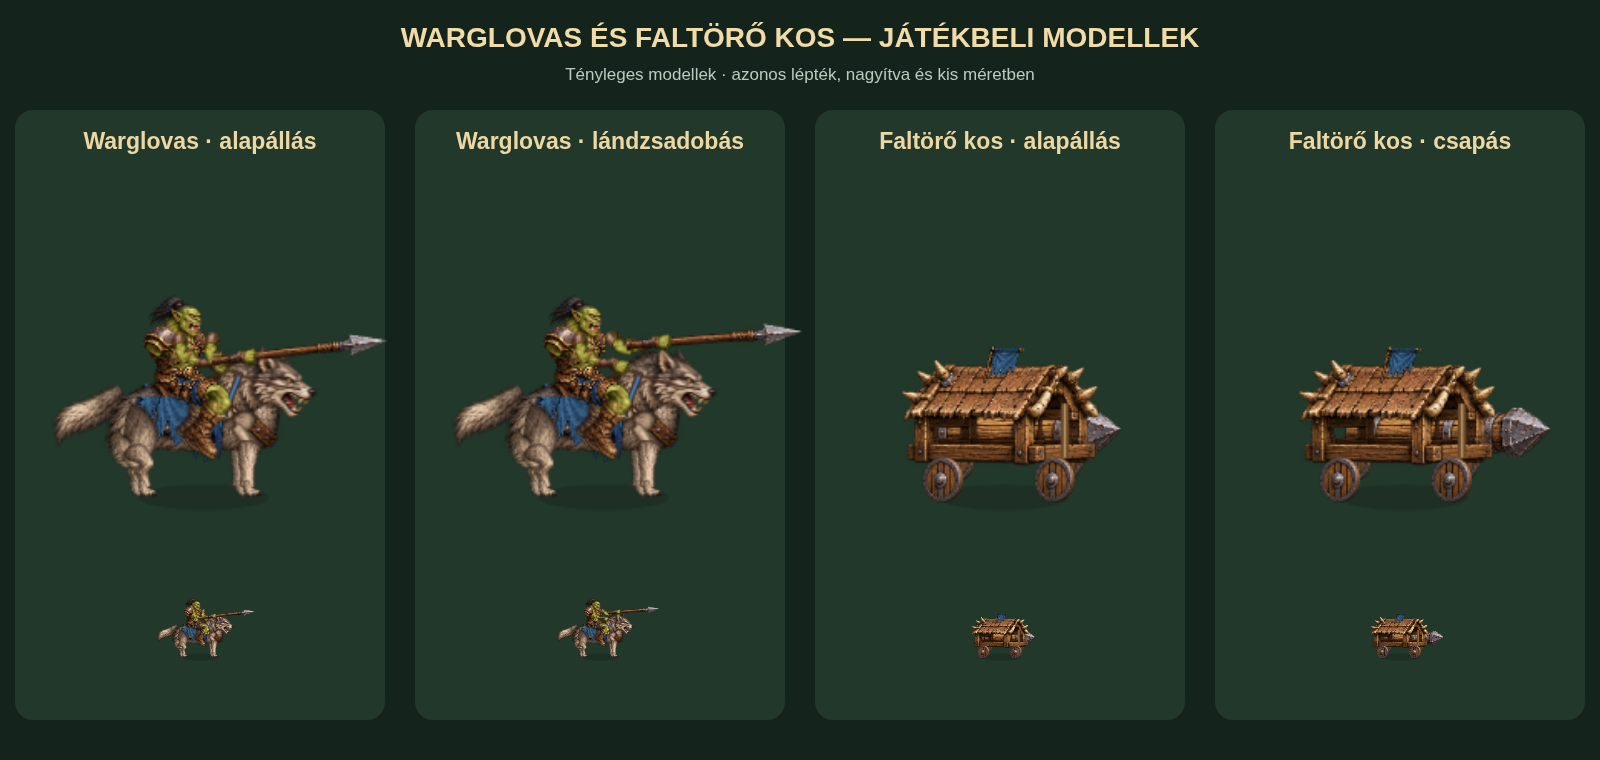
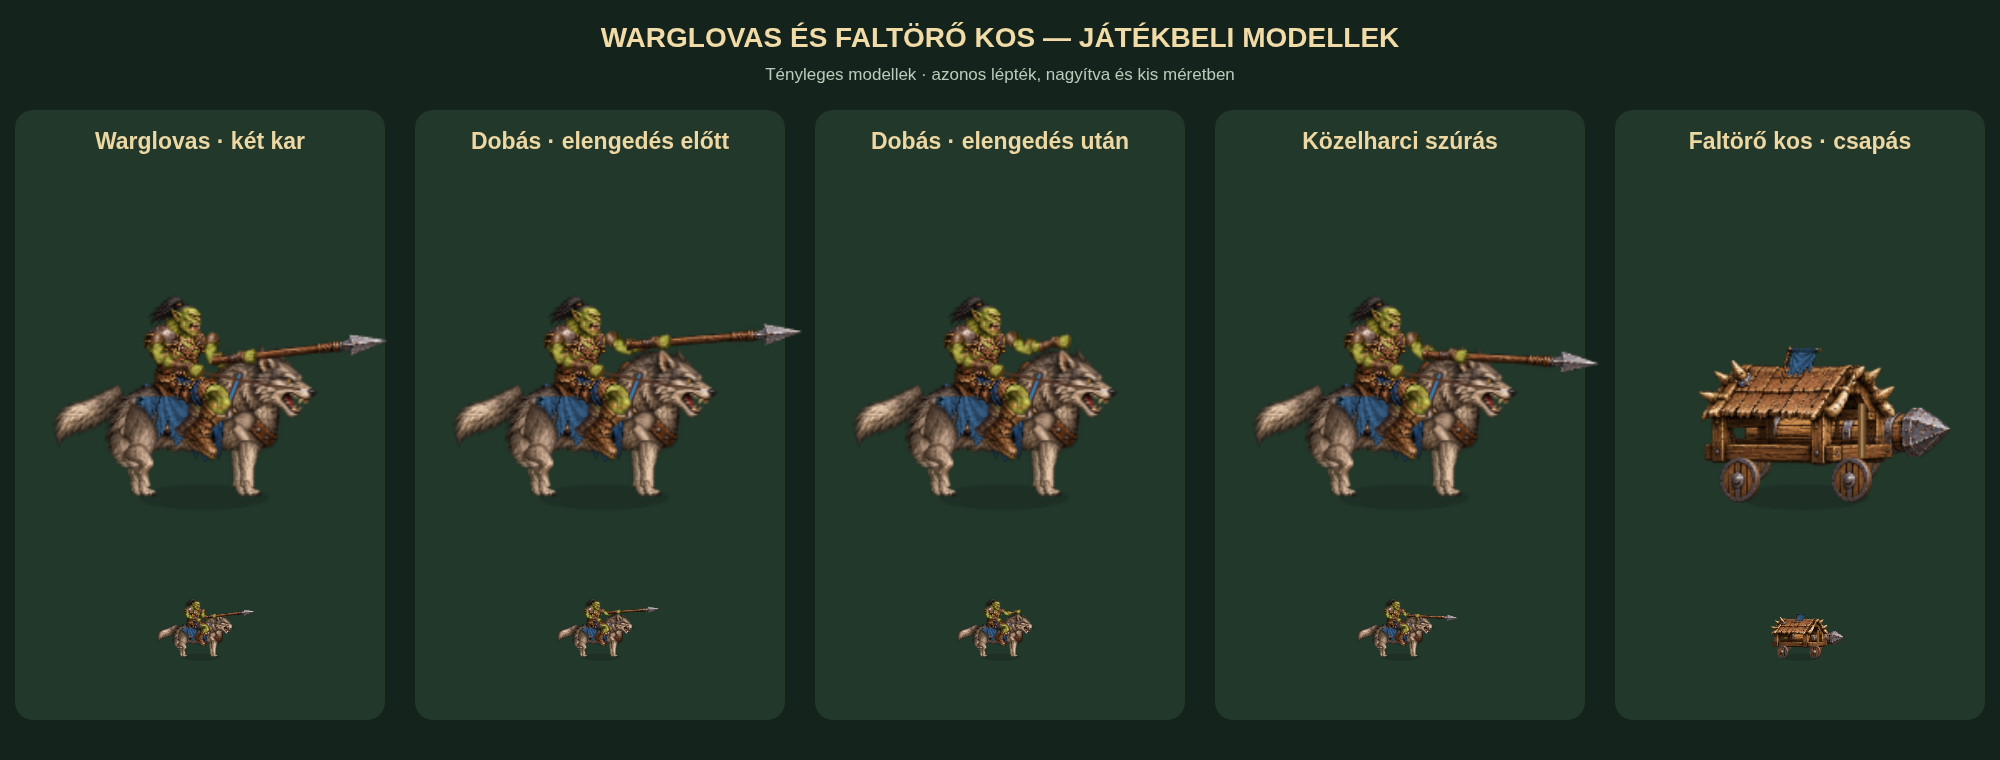
Keep Warg Rider arms visible and swing the Troll club with an extended arm

diff --git a/src/rendering/orc-mystic-figures.js b/src/rendering/orc-mystic-figures.js
@@ -14,7 +14,7 @@ export function installOrcMysticsArt(R) {
   };
   R.shamanLaunchPoint=()=>weaponTip('staff',[13,-28],.6);
   R.shamanProjectilePoint=(a,t)=>shamanProjectilePoint(R,a,t);
-  R.trollGroundPoint=()=>[(10+manifest.clubGround.impact.offset[0])*manifest.modelScales.orc_troll,1.5*manifest.modelScales.orc_troll];
+  R.trollGroundPoint=()=>{const pose=trollArmPose({},{state:'attack',frame:7},0);return pose.contact.map(v=>v*manifest.modelScales.orc_troll);};
 }
 function joint(a,b,upper,lower,bend=1) {
   const dx=b[0]-a[0],dy=b[1]-a[1],d=Math.max(.001,Math.hypot(dx,dy)),reach=Math.min(d,upper+lower-.001);
@@ -45,6 +45,26 @@ function shamanGrip(g,point,angle,elite) {
   g.lineWidth=.3;for(const y of [-.6,.2,.9]){g.beginPath();g.moveTo(-1.3,y);g.lineTo(.9,y);g.stroke();}g.restore();
 }
 
+function trollArmPose(p,pose,bob) {
+  const m=manifest.trollSwing,drag=manifest.clubGround.drag,impact=manifest.clubGround.impact,r=manifest.parts.club,a=manifest.anchors.club.grip,scale=manifest.weaponHeights.club/r[3];
+  const pixelOffset=pixel=>[(pixel[0]-r[0]-a[0]*r[2])*scale,(pixel[1]-r[1]-a[1]*r[3])*scale];
+  const raw=pixelOffset(drag.pixel),rotation=Math.PI/2+m.clubOffset+manifest.weaponRotations.club;
+  const q=[m.radius+Math.cos(rotation)*raw[0]-Math.sin(rotation)*raw[1],Math.sin(rotation)*raw[0]+Math.cos(rotation)*raw[1]];
+  const dragAngle=Math.PI-Math.asin((m.groundY-m.shoulder[1]-bob)/Math.hypot(...q))-Math.atan2(q[1],q[0]);
+  const impactAngle=impact.armAngle+TAU;
+  let armAngle=dragAngle;
+  if(pose.state==='attack'){
+    if(pose.frame<4)armAngle=mix(dragAngle,m.raisedAngle,p.wind);
+    else if(pose.frame<7)armAngle=mix(m.raisedAngle,impactAngle,p.strike);
+    else armAngle=mix(impactAngle,dragAngle,clamp(((p.recovery||0)-.2)/.8));
+  }
+  const grip=[m.shoulder[0]+Math.cos(armAngle)*m.radius,m.shoulder[1]+Math.sin(armAngle)*m.radius],weaponAngle=armAngle+Math.PI/2+m.clubOffset;
+  let contact=null;
+  const pixel=pose.state==='idle'||pose.state==='walk'?drag.pixel:pose.state==='attack'&&(pose.frame===6||pose.frame===7)?impact.pixel:null;
+  if(pixel){const point=pixelOffset(pixel),angle=weaponAngle+manifest.weaponRotations.club;contact=[grip[0]+Math.cos(angle)*point[0]-Math.sin(angle)*point[1],grip[1]+Math.sin(angle)*point[0]+Math.cos(angle)*point[1]+bob];}
+  return {grip,armAngle,weaponAngle,contact};
+}
+
 export function drawOrcMystic(g,R,color,p,elite,pose,key) {
   const troll=key==='orc_troll',prefix=troll?'tr':'sh';
   const part=(name,x,y,h)=>{const r=manifest.parts[name],w=h*r[2]/r[3];g.drawImage(R.orcMysticsTexture,...r,x,y,w,h);};
@@ -56,30 +76,19 @@ export function drawOrcMystic(g,R,color,p,elite,pose,key) {
   const knees=hips.map((start,i)=>{const knee=joint(start,feet[i],8.5,7.9,-1);g.save();if(!i)g.globalAlpha=.9;limb(g,R,prefix+'Thigh',start,knee);limb(g,R,prefix+'Shin',knee,feet[i]);const name=prefix+'Foot',r=manifest.parts[name],h=troll?5.8:5,w=h*r[2]/r[3],a=manifest.anchors[name].ankle;part(name,feet[i][0]-a[0]*w,feet[i][1]-a[1]*h,h);g.restore();return knee;});
   g.save();g.translate(0,bob);
   const torso=prefix+'Torso',r=manifest.parts[torso],a=manifest.anchors[torso],h=troll?25:22,w=h*r[2]/r[3],at=[waist[0]-a.waist[0]*w,waist[1]-a.waist[1]*h];
-  const drag=manifest.clubGround.drag,impact=manifest.clubGround.impact;
-  const bezier=(a,b,c,t)=>a.map((v,i)=>(1-t)*(1-t)*v+2*(1-t)*t*b[i]+t*t*c[i]);
-  let grip=[mix(12,13,strike),-28-wind*1.3],angle=mix(-.10-.15*wind,.6,strike);
-  if(troll){
-    const dragging=[-16,1.5-drag.offset[1]-bob],raised=[-10,-43],contact=[10,1.5-impact.offset[1]];
-    grip=dragging;angle=drag.angle;
-    if(pose.state==='attack'){
-      if(pose.frame<4){const t=p.wind;grip=[mix(-16,-10,t)-7*Math.sin(t*Math.PI),mix(dragging[1],raised[1],t)];angle=mix(drag.angle,-.7,t);}
-      else if(pose.frame<7){grip=bezier(raised,[5,-50],contact,p.strike);angle=mix(-.7,impact.angle,p.strike);}
-      else{grip=bezier(contact,[0,-10],dragging,recovery);angle=mix(impact.angle,drag.angle,recovery);}
-    }
-  }
+  const swing=troll?trollArmPose(p,pose,bob):null;
+  const grip=troll?swing.grip:[mix(12,13,strike),-28-wind*1.3],angle=troll?swing.weaponAngle:mix(-.10-.15*wind,.6,strike);
   const fistRect=manifest.parts.fist,fistAnchor=manifest.anchors.fist,fistHeight=7.2,dx=(fistAnchor.grip[0]-fistAnchor.wrist[0])*fistRect[2]*fistHeight/fistRect[3],dy=(fistAnchor.grip[1]-fistAnchor.wrist[1])*fistHeight;
   const shoulder=i=>[at[0]+a.shoulders[i][0]*w,at[1]+a.shoulders[i][1]*h];
-  const far={shoulder:troll?[-9.8,-30.5]:shoulder(0),wrist:troll?[grip[0]-dx,grip[1]-dy]:[-11-2*wind+strike,-18.5-3*wind-strike]},near={shoulder:troll?[5,-31]:shoulder(1),wrist:troll?[12+2*wind-strike,-17-3*wind]:[grip[0]-1.3,grip[1]]};
-  const armLengths=troll?[8.7,8.2]:[7.2,7.2];
+  const far={shoulder:troll?[...manifest.trollSwing.shoulder]:shoulder(0),wrist:troll?[grip[0]-dx,grip[1]-dy]:[-11-2*wind+strike,-18.5-3*wind-strike]},near={shoulder:troll?[5,-31]:shoulder(1),wrist:troll?[12+2*wind-strike,-17-3*wind]:[grip[0]-1.3,grip[1]]};
+  const armLengths=troll?[manifest.trollSwing.upper,manifest.trollSwing.fore]:[7.2,7.2];
   let weaponHandAngle=0;
   if(troll){
-    // Solve the forearm and closed hand as one straight chain. Keeping the
-    // fist fixed on screen while its forearm rotated was twisting the wrist.
-    const handLength=Math.hypot(dx,dy),reach=armLengths[1]+handLength;
-    far.elbow=joint(far.shoulder,grip,armLengths[0],reach,1);
-    const direction=Math.atan2(grip[1]-far.elbow[1],grip[0]-far.elbow[0]);
-    far.wrist=[far.elbow[0]+Math.cos(direction)*armLengths[1],far.elbow[1]+Math.sin(direction)*armLengths[1]];
+    // A straight arm rotates at the shoulder. The elbow, wrist and grip
+    // share one axis, so a bent-arm IK solution cannot flip the elbow.
+    const direction=swing.armAngle;
+    far.elbow=[far.shoulder[0]+Math.cos(direction)*armLengths[0],far.shoulder[1]+Math.sin(direction)*armLengths[0]];
+    far.wrist=[far.shoulder[0]+Math.cos(direction)*(armLengths[0]+armLengths[1]),far.shoulder[1]+Math.sin(direction)*(armLengths[0]+armLengths[1])];
     weaponHandAngle=direction-Math.atan2(dy,dx);
   }else far.elbow=joint(far.shoulder,far.wrist,...armLengths,1);
   near.elbow=joint(near.shoulder,near.wrist,...armLengths,1);
@@ -102,8 +111,7 @@ export function drawOrcMystic(g,R,color,p,elite,pose,key) {
   if(!troll&&!p.death){const radius=loaded?2.1+wind+strike:1.2,gradient=g.createRadialGradient(...tip,0,...tip,radius*2.5);gradient.addColorStop(0,'#f8e4ff');gradient.addColorStop(.25,'#bc72edbb');gradient.addColorStop(1,'#a565e800');g.fillStyle=gradient;g.beginPath();g.arc(...tip,radius*2.5,0,TAU);g.fill();}
   if(elite){g.strokeStyle='#f0cf76';g.lineWidth=1.2;g.beginPath();g.moveTo(-8,-30);g.lineTo(-4,-32);g.moveTo(4,-32);g.lineTo(8,-30);g.stroke();g.strokeStyle='#ffe3a0';g.lineWidth=.8;g.beginPath();g.moveTo(-5,waist[1]+2);g.lineTo(5,waist[1]+2);g.stroke();}
   g.restore();g.restore();
-  const groundOffset=troll&&(pose.state==='idle'||pose.state==='walk')?drag.offset:troll&&pose.state==='attack'&&(pose.frame===6||pose.frame===7)?impact.offset:null;
-  return {painted:true,style:'painted-mystic',handRoles:{weapon:troll?'far':'near',free:troll?'near':'far'},arms:{far,near},armLengths,grip,weaponHandAngle,weapon,weaponAngle:angle,weaponTip:tip,groundContact:groundOffset?[grip[0]+groundOffset[0],grip[1]+groundOffset[1]+bob]:null,torsoShoulders:troll?null:[shoulder(0),shoulder(1)],loaded,neck,collar:[...neck],pelvis,waist:[waist[0],waist[1]+bob],hips,knees,feet,modelScale:manifest.modelScales[key],death:p.death};
+  return {painted:true,style:'painted-mystic',handRoles:{weapon:troll?'far':'near',free:troll?'near':'far'},arms:{far,near},armLengths,grip,weaponHandAngle,weapon,weaponAngle:angle,weaponTip:tip,groundContact:swing?.contact||null,torsoShoulders:troll?null:[shoulder(0),shoulder(1)],loaded,neck,collar:[...neck],pelvis,waist:[waist[0],waist[1]+bob],hips,knees,feet,modelScale:manifest.modelScales[key],death:p.death};
 }
 
 export function shamanProjectilePoint(R,a,t) {

diff --git a/src/rendering/orc-siege-figures.js b/src/rendering/orc-siege-figures.js
@@ -58,7 +58,7 @@ function spear(g,R,hand,angle) {
 }
 
 export function drawWargRider(g,R,color,p,elite,pose,variant) {
-  const tinted=tint(R,color),walk=pose.state==='walk',cycle=walk?p.wheel:0,bob=walk?Math.sin(cycle*2)*.55:0,death=p.death,recovery=clamp((p.recovery-.2)/.8),strike=p.strike*(1-recovery),wind=p.wind*(1-p.strike)*(1-p.recovery);
+  const tinted=tint(R,color),walk=pose.state==='walk',cycle=walk?p.wheel:0,bob=walk?Math.sin(cycle*2)*.55:0,death=p.death;
   const hoofs=[],knees=[],saddle=[-4,-30+bob];
   g.save();g.translate(death*5,-17+15*Math.sin(death*1.45));g.rotate(death*1.45);g.translate(0,17);
   const leg=(front,near)=>{
@@ -86,12 +86,13 @@ export function drawWargRider(g,R,color,p,elite,pose,variant) {
   const torso=manifest.parts.riderTorso,a=manifest.anchors.riderTorso,h=18,w=h*torso[2]/torso[3],waist=[-3,-32],at=[waist[0]-a.waist[0]*w,waist[1]-a.waist[1]*h];part(g,R,tinted,'riderTorso',...at,w);
   const collar=[at[0]+a.neck[0]*w,at[1]+a.neck[1]*h],head=manifest.parts.riderHead,anchor=manifest.anchors.riderHead.neck,headH=12.5,headW=headH*head[2]/head[3];part(g,R,tinted,'riderHead',collar[0]-anchor[0]*headW,collar[1]-anchor[1]*headH,headW);
   limb(g,R,tinted,'riderThigh',hips[1],riderKnees[1]);limb(g,R,tinted,'riderShin',riderKnees[1],ankles[1]);
-  const reinsHand=[6,-34],reinsShoulder=[-6,-42],reinsArm=weaponArm(g,R,tinted,reinsShoulder,reinsHand);
+  const reinsHand=[-1,-33],reinsShoulder=[-12,-42],reinsArm=weaponArm(g,R,tinted,reinsShoulder,reinsHand);
   g.strokeStyle='#513425';g.lineWidth=.7;g.beginPath();g.moveTo(...reinsHand);g.quadraticCurveTo(17,-29,28,-28);g.stroke();fist(g,R,reinsHand,reinsArm.handAngle,4.5);
   const throwing=variant==='throw',released=throwing&&pose.frame>=7;
-  let hand=[mix(14-3*wind,17,strike),mix(-37-2*wind,-36,strike)],angle=mix(-.12-.15*wind,.08,strike);
+  const rest=pose.frame>=7?clamp((pose.frame-7)/4):0;
+  let hand=pose.state!=='attack'?[14,-37]:pose.frame<4?[mix(14,7,p.wind),mix(-37,-38,p.wind)]:pose.frame<7?[mix(7,17,p.strike),mix(-38,-37,p.strike)]:[mix(17,14,rest),-37];
+  let angle=pose.state!=='attack'?-.12:pose.frame<4?mix(-.12,-.18,p.wind):pose.frame<7?mix(-.18,.05,p.strike):mix(.05,-.12,rest);
   if(throwing){
-    const rest=pose.frame>=7?clamp((pose.frame-7)/4):0;
     hand=pose.frame<4?[mix(14,2,p.wind),mix(-37,-47,p.wind)]:pose.frame<7?[mix(2,RELEASE_HAND[0],p.strike),mix(-47,RELEASE_HAND[1],p.strike)]:[mix(RELEASE_HAND[0],17,rest),mix(RELEASE_HAND[1],-37,rest)];
     angle=pose.frame<4?mix(-.12,-.4,p.wind):mix(-.4,RELEASE_ANGLE,p.strike);
   }

diff --git a/src/rendering/battle-figures.js b/src/rendering/battle-figures.js
@@ -243,7 +243,7 @@ function sprite(R, u, pose) {
   let canvas=R.ROAD.sprites.get(key);if(canvas)return canvas;
   const style=FIGURES[u.key];if(!style)return null;
   canvas=document.createElement('canvas');canvas.width=canvas.height=mystic&&u.key==='orc_troll'?384:mystic||siege?320:knight||catapult||human||archer||caster||raider||mystic?256:refined||painted?192:128;
-  const bounds=siege?(u.key==='orc_warg'?[-68,-86,148,148]:[-60,-70,136,136]):mystic?(u.key==='orc_troll'?[-104,-128,208,208]:[-82,-116,168,168]):raider?[-48,-80,112,112]:human||archer||caster?[-44,-76,112,112]:catapult?[-54,-78,112,112]:knight?[-54,-84,124,124]:orc?[-46,-70,92,92]:[-40,-66,80,80];canvas.figureBounds=bounds;
+  const bounds=siege?(u.key==='orc_warg'?[-68,-86,148,148]:[-60,-70,136,136]):mystic?(u.key==='orc_troll'?[-112,-144,240,240]:[-82,-116,168,168]):raider?[-48,-80,112,112]:human||archer||caster?[-44,-76,112,112]:catapult?[-54,-78,112,112]:knight?[-54,-84,124,124]:orc?[-46,-70,92,92]:[-40,-66,80,80];canvas.figureBounds=bounds;
   const g=canvas.getContext('2d'),p=phase(pose),resolution=canvas.width/bounds[2];g.translate(-bounds[0]*resolution,-bounds[1]*resolution);g.scale(resolution,resolution);
   ellipse(g,1,2,style.mount||style.machine?18:style.size>1?15:10,3.5,'#18251e66');
   if(p.death&&!painted){g.translate(p.death*4,-(1-p.death)*23);g.scale(1,1-p.death*.55);g.rotate(p.death*1.48);g.translate(0,23);}

diff --git a/src/config/app.js b/src/config/app.js
@@ -1,6 +1,6 @@
 export const APP = Object.freeze({
-  version: '4.46.0',
-  label: 'V4.46.0 · WARGLOVAS ÉS FALTÖRŐ KOS',
+  version: '4.46.1',
+  label: 'V4.46.1 · WARGLOVAS ÉS FALTÖRŐ KOS',
   title: 'Roadlords – Warglovas és Faltörő kos',
   repository: 'krisztianmatekiss/Roadlords',
   musicRoot: 'https://raw.githubusercontent.com/krisztianmatekiss/roadlords-music/main/',
